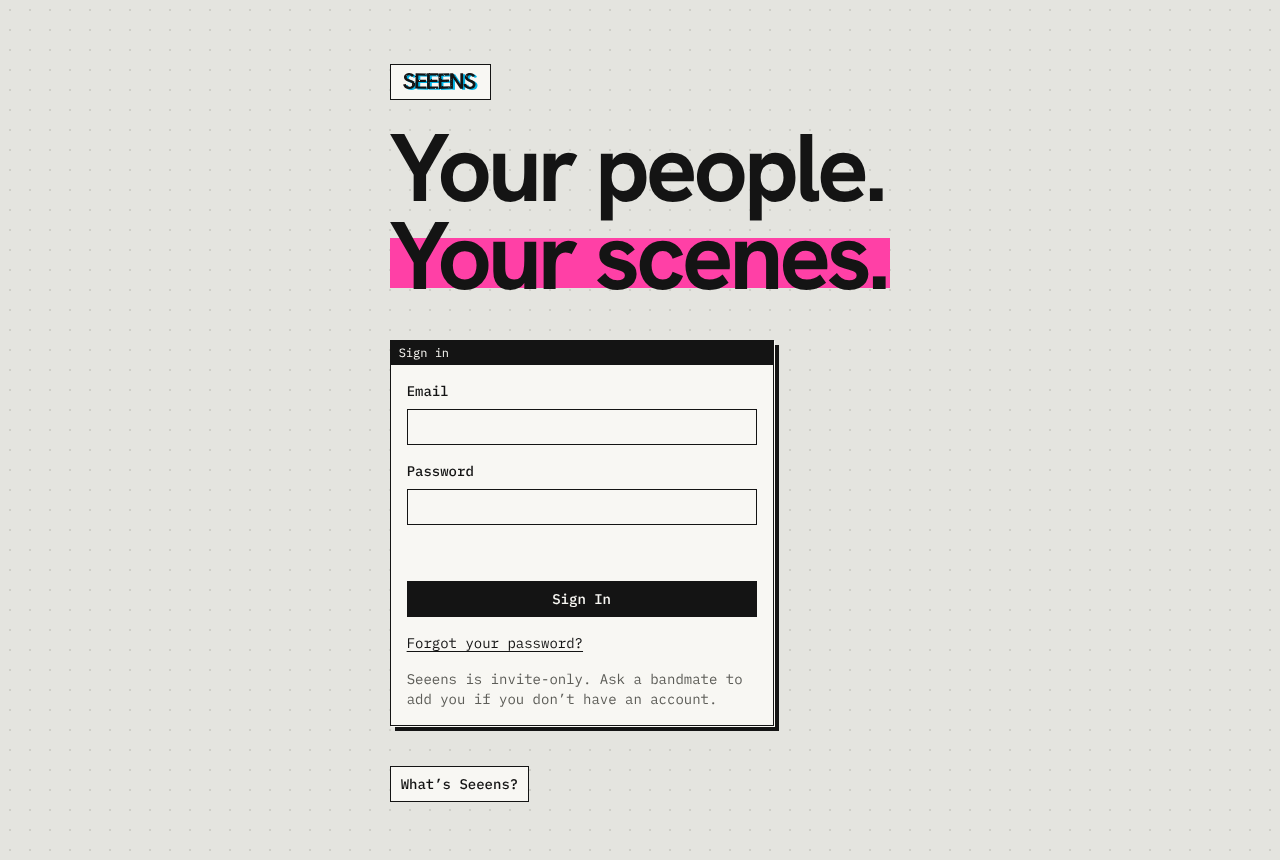
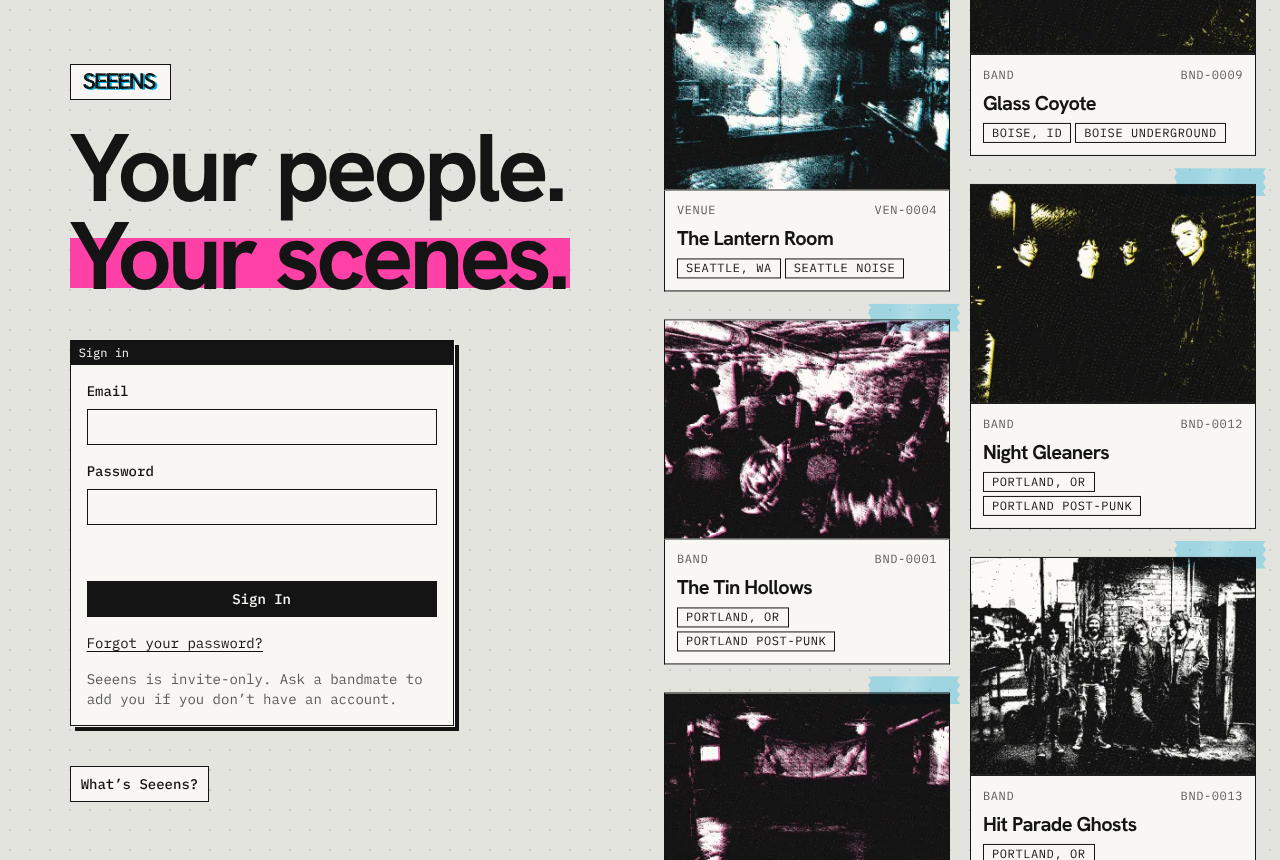
Sign-in screenshot shows the preview; walls keep every card (#261)
- A sixth sample photo (Hit Parade Ghosts, AI-generated, fictional), so
  the sample data has enough cards for the sign-in preview.
- The screenshot script takes the sign-in shot last, once the photos are
  in, with the drift paused.
- The preview's cache is tagged: saving or removing a photo and Keep
  Private refresh it right away instead of within the hour.
- Below 1600px the hidden third column was taking a third of the cards
  with it. Two-column and three-column walls are both drawn now, and CSS
  shows the one that fits.

Claude-Session: https://claude.ai/code/session_01SMP6NnyPkRALtU7G1T7uNS

diff --git a/src/components/preview-wall.tsx b/src/components/preview-wall.tsx
@@ -8,16 +8,27 @@ import type { PreviewCard } from "@/lib/preview/cards";
 // nothing from any band's own notes. Decorative, so screen readers skip it,
 // and with reduced motion it holds still.
 export function PreviewWall({ cards }: { cards: PreviewCard[] }) {
-  // Three columns; the third shows only on wide screens (CSS).
-  const columns = [0, 1, 2].map((n) => cards.filter((_, i) => i % 3 === n));
+  // Two columns, or three on wide screens: both are drawn and CSS shows the
+  // one that fits, so every card has a place either way. Photos in the
+  // hidden one never load (lazy).
   return (
-    <div className="preview-wall" aria-hidden="true">
+    <>
+      <Columns cards={cards} count={2} />
+      <Columns cards={cards} count={3} />
+    </>
+  );
+}
+
+function Columns({ cards, count }: { cards: PreviewCard[]; count: number }) {
+  const columns = Array.from({ length: count }, (_, n) => cards.filter((_, i) => i % count === n));
+  return (
+    <div className="preview-wall" data-columns={count} aria-hidden="true">
       {columns.map((col, i) =>
         col.length ? (
           <div
             key={i}
             className="preview-column"
-            // About 8s a card, and the second column a little slower, so they drift apart.
+            // About 8s a card, each column a little slower than the last, so they drift apart.
             style={{ "--preview-duration": `${col.length * (8 + i * 1.5)}s` } as CSSProperties}
           >
             {/* Twice over, so the loop has no seam. */}

diff --git a/src/lib/preview/cards.ts b/src/lib/preview/cards.ts
@@ -1,18 +1,21 @@
 import "server-only";
 import { createClient } from "@supabase/supabase-js";
-import { cacheLife } from "next/cache";
+import { cacheLife, cacheTag } from "next/cache";
 import type { Database } from "@/lib/supabase/database.types";
 import { getSupabaseEnv } from "@/lib/supabase/env";
+import { PREVIEW_TAG } from "./tag";
 
 export type PreviewCard = Database["public"]["Functions"]["preview_cards"]["Returns"][number];
 
 // The sign-in page's preview (#255): shared bands and venues with photos,
-// shuffled. The same for everyone, so it's cached and reshuffled hourly; a
-// listing set to Keep Private leaves within the hour. No cookies: it asks
+// shuffled. The same for everyone, so it's cached and reshuffled hourly.
+// Saving or removing a photo, and Keep Private, refresh it right away
+// (PREVIEW_TAG); other changes show within the hour. No cookies: it asks
 // as a visitor, and the database function decides what a visitor may see.
 export async function getPreviewCards(): Promise<PreviewCard[]> {
   "use cache";
   cacheLife("hours");
+  cacheTag(PREVIEW_TAG);
   try {
     const { url, publishableKey } = getSupabaseEnv();
     const supabase = createClient<Database>(url, publishableKey, {

diff --git a/src/lib/photos/actions.ts b/src/lib/photos/actions.ts
@@ -1,6 +1,7 @@
 "use server";
 
-import { revalidatePath } from "next/cache";
+import { revalidatePath, updateTag } from "next/cache";
+import { PREVIEW_TAG } from "@/lib/preview/tag";
 import { getMembership } from "@/lib/auth/dal";
 import { createClient } from "@/lib/supabase/server";
 import { readSettings } from "./settings";
@@ -68,6 +69,7 @@ export async function savePhoto(
 
   revalidatePath(`/connections/${row.id}`);
   revalidatePath("/");
+  updateTag(PREVIEW_TAG);
   return {};
 }
 
@@ -88,6 +90,7 @@ export async function removePhoto(connectionId: string): Promise<Result> {
 
   revalidatePath(`/connections/${row.id}`);
   revalidatePath("/");
+  updateTag(PREVIEW_TAG);
   return {};
 }
 

diff --git a/src/app/globals.css b/src/app/globals.css
@@ -2592,12 +2592,20 @@
     margin-top: -140px;
   }
   .preview-column:nth-child(3) {
-    display: none;
     margin-top: -60px;
   }
+  /* Two columns, then three from 100rem (PreviewWall draws both). */
+  @media (width >= 64rem) {
+    .preview-wall[data-columns="3"] {
+      display: none;
+    }
+  }
   @media (width >= 100rem) {
-    .preview-column:nth-child(3) {
-      display: block;
+    .preview-wall[data-columns="2"] {
+      display: none;
+    }
+    .preview-wall[data-columns="3"] {
+      display: flex;
     }
   }
   /* Each card carries its own gap below it, so half the track is exactly one

diff --git a/src/lib/connections/sharing-actions.ts b/src/lib/connections/sharing-actions.ts
@@ -1,6 +1,7 @@
 "use server";
 
-import { revalidatePath } from "next/cache";
+import { revalidatePath, updateTag } from "next/cache";
+import { PREVIEW_TAG } from "@/lib/preview/tag";
 import { createClient } from "@/lib/supabase/server";
 
 export type SharingResult = { error?: string; refused?: number };
@@ -23,5 +24,6 @@ export async function setKeepPrivate(ids: string[], keepPrivate: boolean): Promi
     refused += Number((data as { refused?: number } | null)?.refused ?? 0);
   }
   revalidatePath("/", "layout");
+  updateTag(PREVIEW_TAG);
   return refused ? { refused } : {};
 }

diff --git a/src/lib/preview/tag.ts b/src/lib/preview/tag.ts
@@ -1,0 +1,2 @@
+// The sign-in preview's cache tag (#255), refreshed when a photo or Keep Private changes.
+export const PREVIEW_TAG = "preview-cards";
